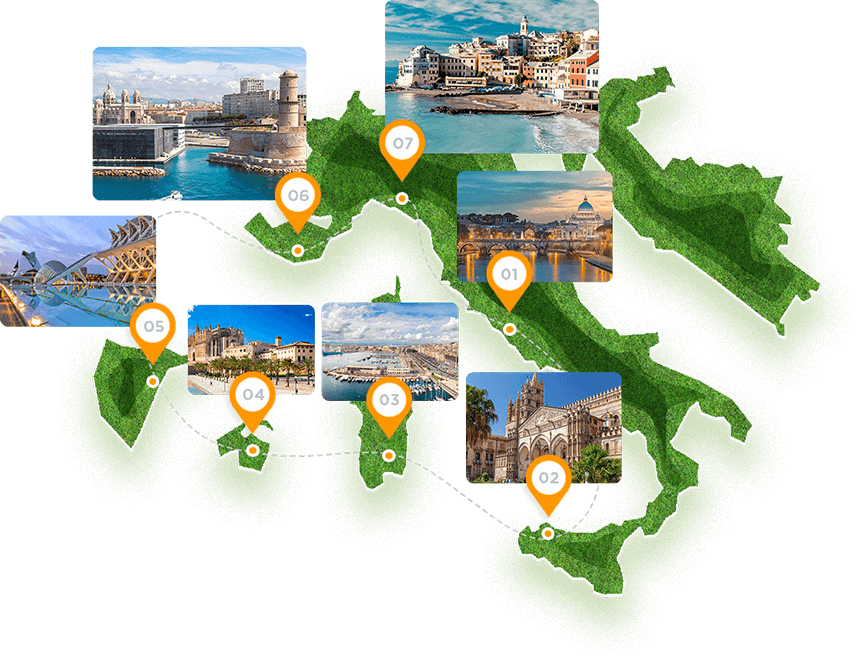
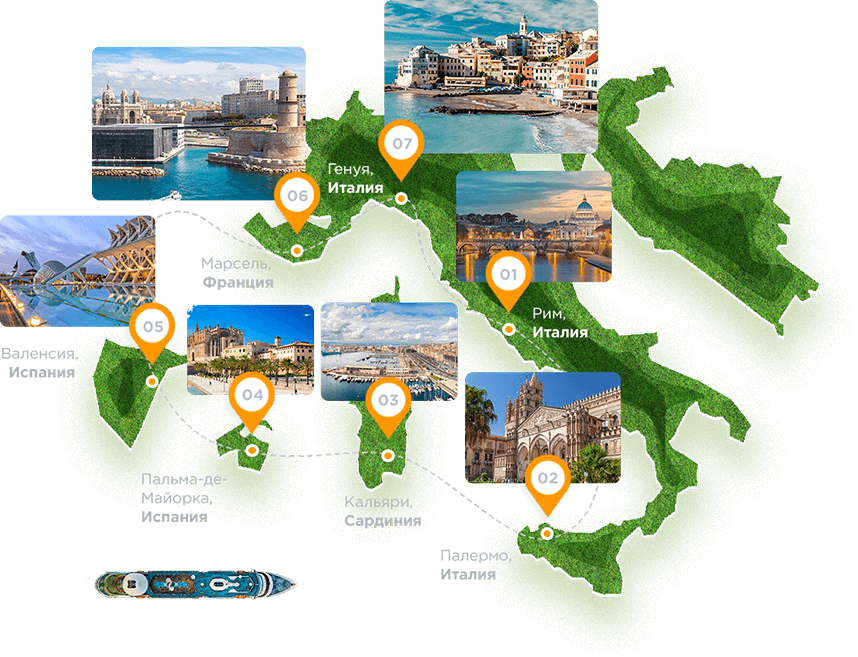
add form registration, update map and greeting section

diff --git a/app/assets/src/js/jquery.main.js b/app/assets/src/js/jquery.main.js
@@ -99,10 +99,15 @@ $(document).ready(function(){
 		$('#js-navigation-menu').toggleClass('nav__menu_active');
 	});
 
-	$('[data-action="modal"]').click(function () {
-		var modal = $(this).attr('data-open');
+	function showModal(modal) {
+		$('.modal').removeClass('modal_showing_in');
 		$(modal).addClass('modal_showing_in');
 		$('body').addClass('modal-open');
+	}
+
+	$('[data-action="modal"]').click(function () {
+		var modal = $(this).attr('data-open');
+		showModal(modal);
 	});
 
 	$('[data-close="modal"]').click(function () {
@@ -148,7 +153,7 @@ $(document).ready(function(){
 			title: '<strong><span>Круиз по</span><br><span>Средиземноморью</span></strong><br><span>8 дней</span>'
 		},
 		pacific: {
-			image: 'assets/build/img/map-1.png',
+			image: 'assets/build/img/map-2.png',
 			title: '<strong><span>Круиз по островам</span><br><span>Тихого океана</span></strong><br><span>15 дней</span>'
 		}
 	};

diff --git a/app/assets/src/sass/components/_form.sass b/app/assets/src/sass/components/_form.sass
@@ -1,6 +1,13 @@
 $themeFormDesign: "new"
 
 .form
+  &__label
+    &-title
+      +mb(5px)
+      +d(block)
+      +c($color-white)
+      +fs(14px)
+      +pl(20px)
   &__input
     +bgc($color-white)
     border-radius: 30px
@@ -12,22 +19,36 @@ $themeFormDesign: "new"
     border: none
     outline: none
     +tr()
-    +min(md)
-      +fs(16px)
     +placeholder()
       +c(#939ea4)
       +tr()
     &:focus
       +placeholder()
         opacity: 0
+  &__address
+    +r()
+    +d(block)
+    &-title
+      +a(50%)
+      transform: translateY(-50%)
+      +fs(14px)
+      +c(#939ea4)
+      &_prev
+        left: 20px
+      &_next
+        right: 20px
+    &-input
+      +pl(75px)
   &__submit
     min-width: 250px
   &__row
-    +offset('b', 15px)
+    +offset('b', 10px)
     +min(sm)
-      +offset('b', 30px)
+      +offset('b', 20px)
   &__column
     +max(sm)
+      +offset('b', 15px)
+    &_block
       +offset('b', 15px)
   &__footer
     +ta(center)

diff --git a/app/assets/src/sass/components/_control.sass b/app/assets/src/sass/components/_control.sass
@@ -5,16 +5,20 @@
   +r()
   user-select: none
   cursor: pointer
+  +fs(0)
 
   &-group
     +r()
     +py(15px)
 
+  &_white
+    +c($color-white)
+
   &__text
     +d('inline-block')
     vertical-align: middle
-    +pl(30px)
-    +fs(18px)
+    +pl(35px)
+    +fs(15px)
 
   &__indicator
     +a(50%, null, null, 0)
@@ -76,3 +80,15 @@
 
     &:before
       border-color: $color-brand-1
+
+  &_white input[type="radio"] + &__indicator
+    border-color: $color-white
+
+    &:before
+      +bgc($color-white)
+
+  &_white input[type="checkbox"] + &__indicator
+    border-color: $color-white
+
+    &:before
+      border-color: $color-white

diff --git a/app/assets/src/sass/pages/home/_map.sass b/app/assets/src/sass/pages/home/_map.sass
@@ -14,12 +14,12 @@
       top: -5%
       left: 0
       +min(sm)
-        top: 0
+        top: -10%
     &_2
       top: -7%
       right: 0
       +min(sm)
-        top: 0
+        top: -15%
     &_3
       bottom: -5%
       left: -5%
@@ -36,10 +36,6 @@
     +mb(45px)
   &-footer
     +ta(center)
-    +min(sm)
-      +mt(-60px)
-    +min(md)
-      +mt(-120px)
     &__title
       +ff('b')
     &__ship

diff --git a/app/assets/src/sass/pages/home/_mission.sass b/app/assets/src/sass/pages/home/_mission.sass
@@ -130,7 +130,9 @@ $common-border-radius: 10px
         +c($color-white)
         text-decoration: none
         +ff('b')
-        +fs(15px)
+        +fs(13px)
         +tr()
+        +min(md)
+          +fs(15px)
         &:hover
           +c($color-brand-1)

diff --git a/app/assets/src/sass/pages/home/_life.sass b/app/assets/src/sass/pages/home/_life.sass
@@ -4,8 +4,6 @@
   &-item
     +max(sm)
       +offset('b', 45px)
-    +min(sm)
-      +ai(center)
     &:nth-child(odd) &__image
       &-column
         +max(md)

diff --git a/app/assets/src/sass/layouts/footer/_footer.sass b/app/assets/src/sass/layouts/footer/_footer.sass
@@ -3,3 +3,5 @@
   +py(15px)
   +fs(15px)
   +c(#939ea4)
+  +min(sm)
+    +pt(0)
